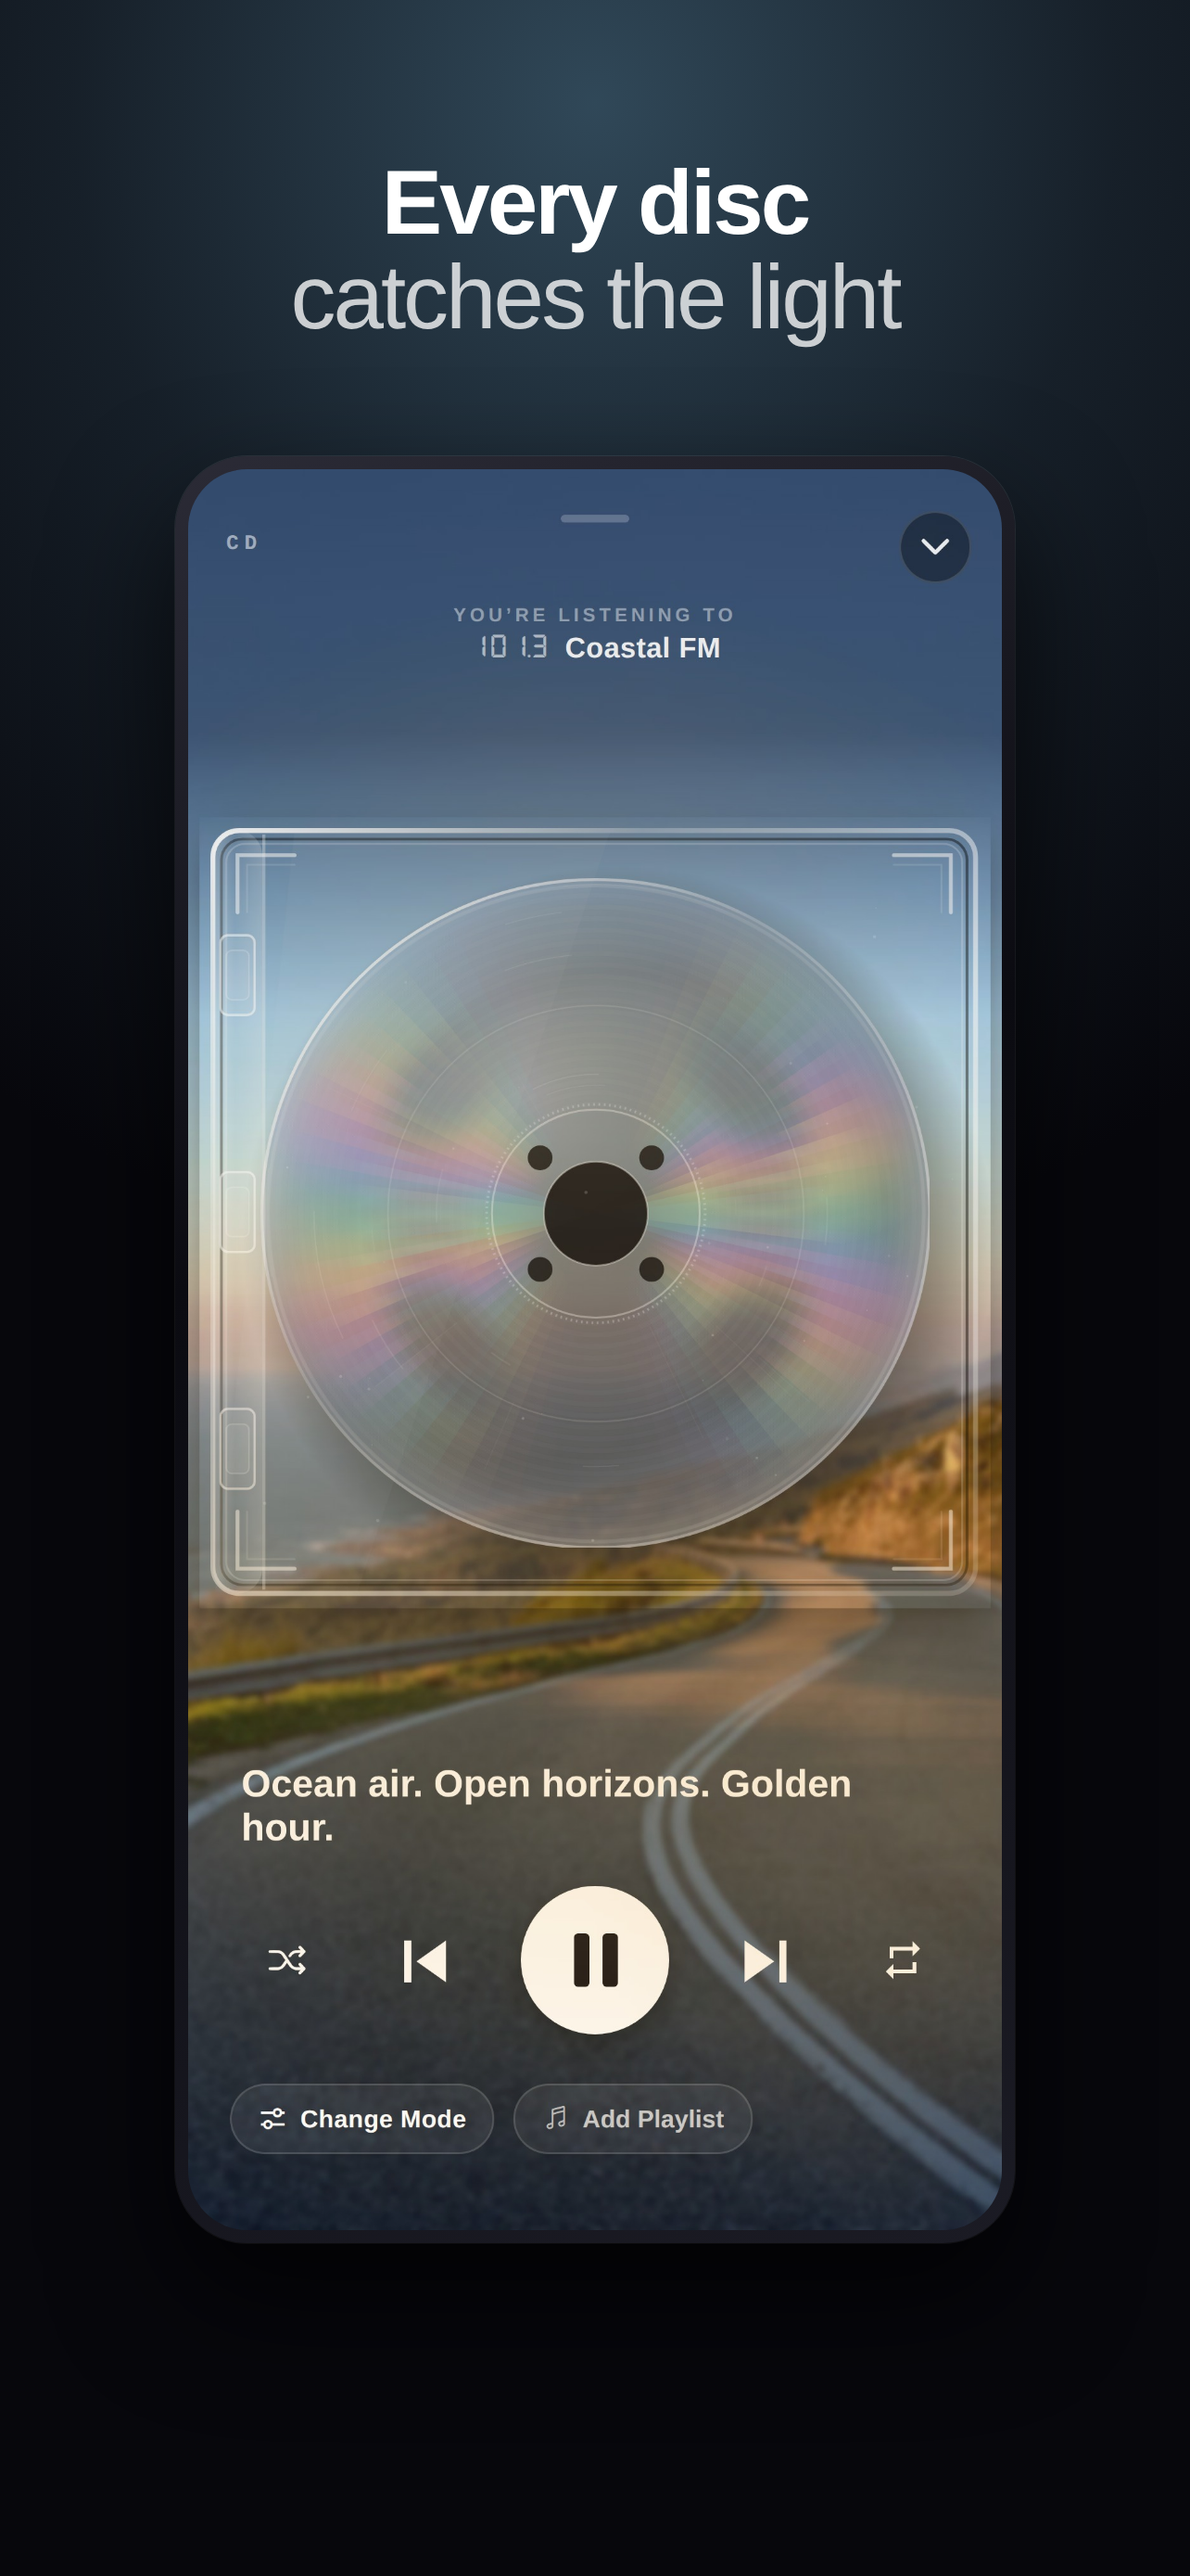
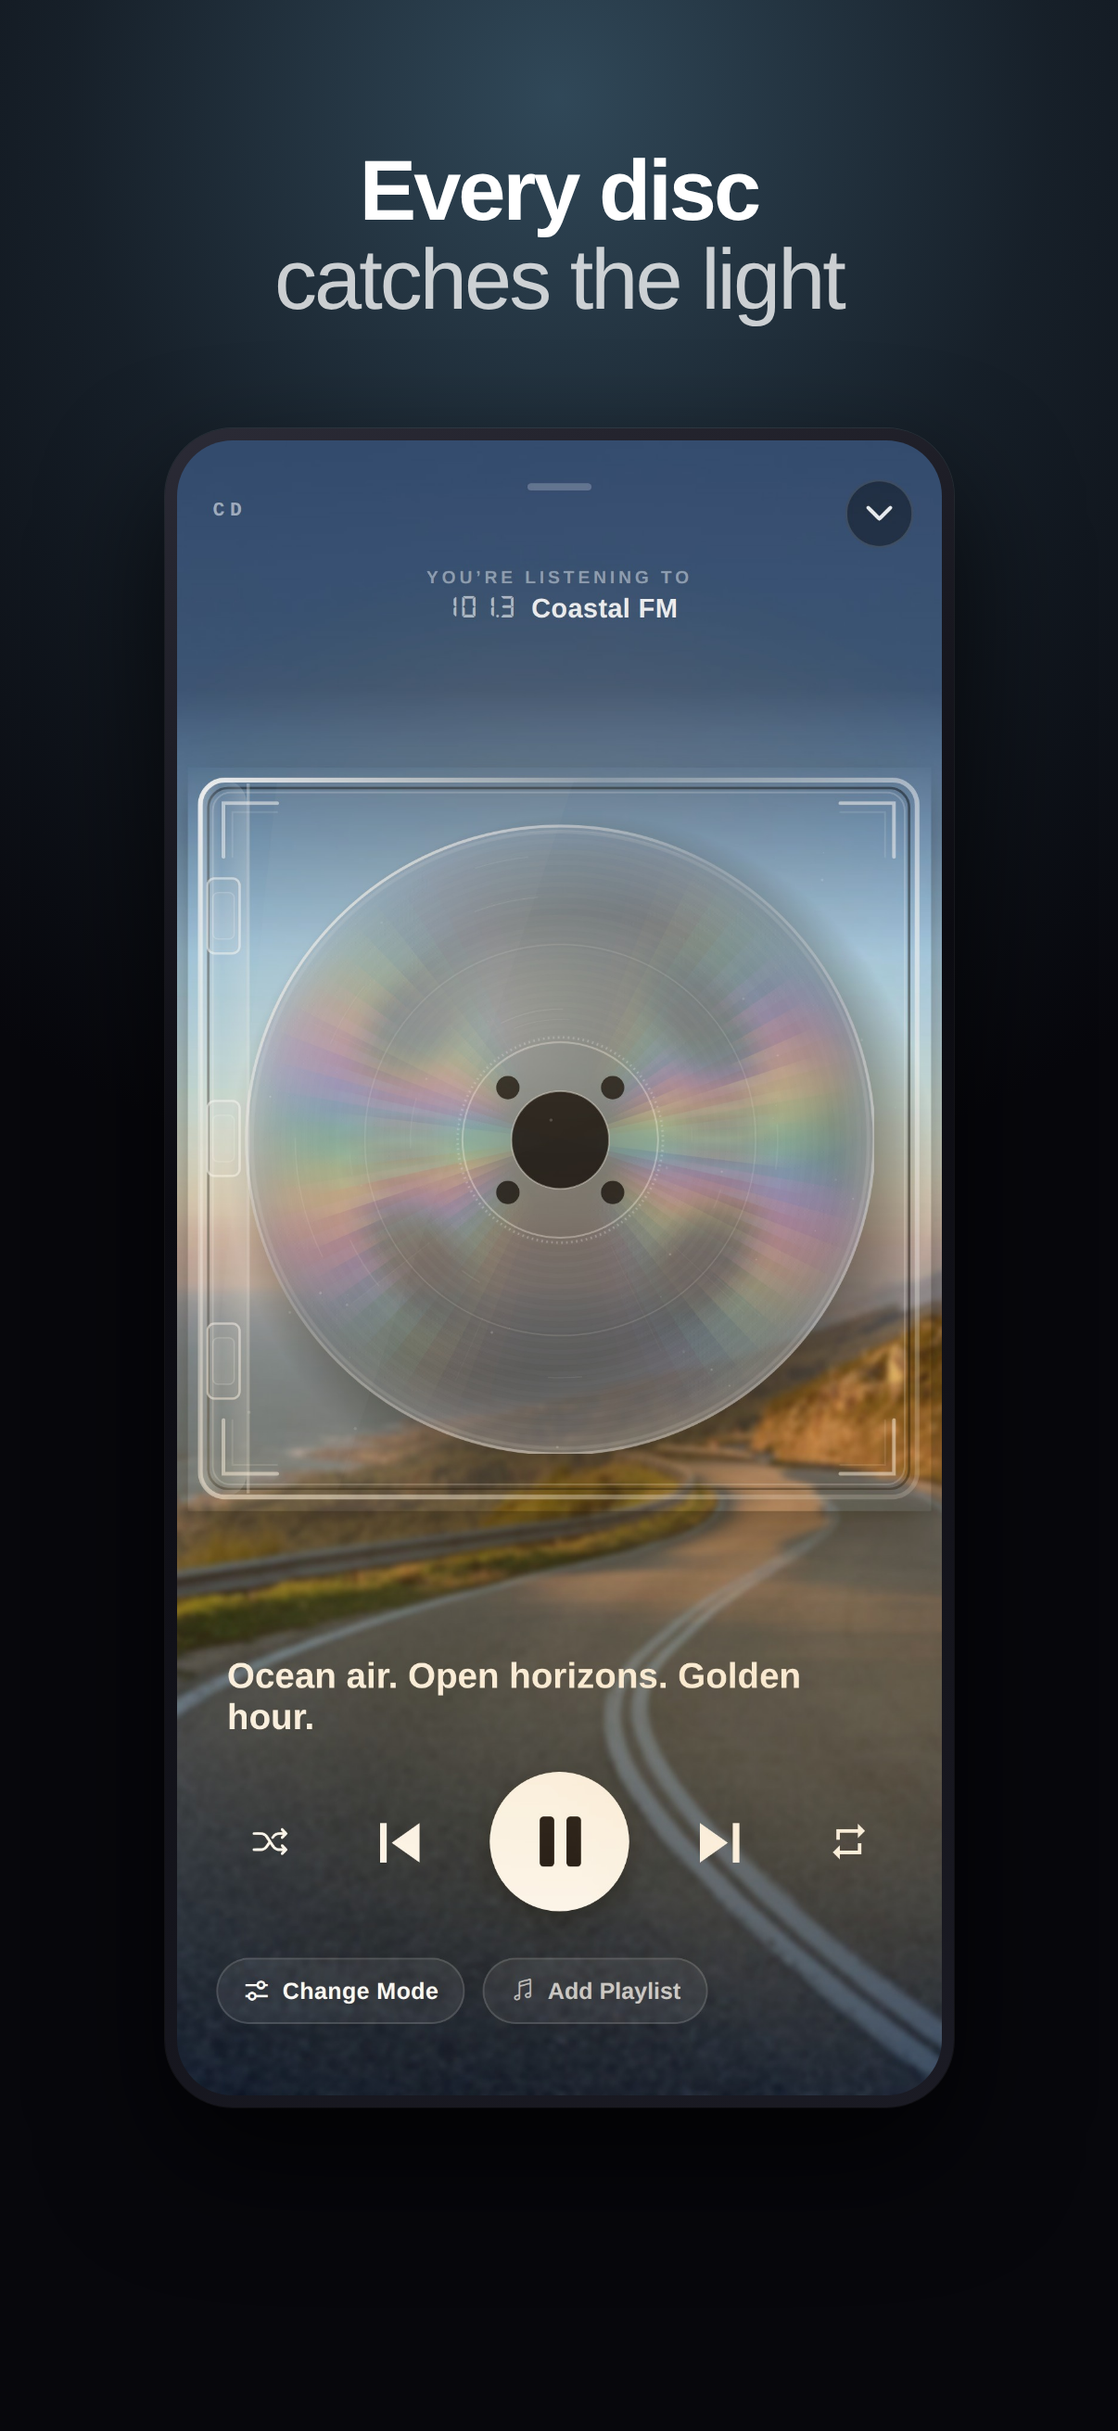
Re-render the slides at 1206x2622 — Apple refused 1284x2778
App Store Connect rejected all ten screenshots with "File dimensions are
invalid". Apple has consolidated its iPhone screenshot slots into a single
"iPhone with Dynamic Island (medium display)" tab, and that slot names the
four sizes it accepts: 2556x1179, 1179x2556, 2622x1206, 1206x2622. The
largest portrait one is taken, because the page states that screenshots
scale down to smaller devices and nothing scales up.

Every number in the builder's phone column is its predecessor times
1206/1284, so this is the same composition at a smaller size rather than a
re-design; G.k carries that factor into the CARDS layout, whose constants
were written against the original canvas. Checked by reading the ten
outputs' dimensions back off the files, and by diffing each against its own
predecessor scaled down: means of 1.6-6.2 of 255, with the hand-scaled
CARDS slide second lowest at 2.60.

The raw captures stay at 1284x2778 deliberately -- they are composited into
a drawn phone frame about 825px wide, so they only have to exceed it -- and
shots.mjs now says so, because shrinking them is the obvious wrong fix. The
app preview is already 886x1920 and carried forward untouched. The iPad set
is unchanged and still needs its own tab checked.

Claude-Session: https://claude.ai/code/session_01QfXMCYhSHowDeZKzYgKa2H

diff --git a/AGENTS.md b/AGENTS.md
@@ -108,6 +108,12 @@ The owner does not code — describe changes in plain English, Claude implements
   **SO THE REMAINING ROUTE IS A PERSON AT APPLE, AND THAT IS THE WHOLE OF WHAT IS LEFT.** Account-level Compliance has read In Review since 07.09 (31 days) so its button is unavailable; the per-app pop-up is inert; there is no third form. **AND IT CANNOT BE CHASED FROM HERE**: `developer.apple.com/contact/` answers a 302 straight to `idmsa.apple.com` — Apple's sign-in — and this sandbox's proxy refuses that host outright, so even the support menu's own wording cannot be read from this environment, let alone a case opened. Her browser and her phone are the instruments. What to tell them, in one breath: the account's DSA compliance has been In Review since 7 September, the app is missing from all 27 EU storefronts while the US and UK serve normally, App Store Connect says trader contact information is missing, and neither the account-level control nor the per-app pop-up will accept it.
   ORDER, and it is two steps rather than a chain: **try the per-app Edit pop-up first** (free, instant, and it may simply let her finish) -> if it is also inert, **open a case with Apple Developer Support and prefer the phone**, because 31 days with nothing in the account's own inbox is the one thing here that no amount of form-filling can fix. Have the Anytime Mailbox receipt, the Cruise FM service email and a phone that can take a code ready either way. **AND THE SYMPTOM IS STILL THE ONLY PROOF**: nothing is recorded as done until `apps.apple.com/de/app/id6793233679` loads in her browser.
 
+- **APPLE CHANGED THE SCREENSHOT SIZE AND REFUSED THE WHOLE SET 2026-10-13** (marketing assets only — no code, no build, no publish) — the ten slides went up and App Store Connect answered *"File dimensions are invalid"* on every one. **1284x2778 is simply not a size it takes any more.** Apple has consolidated its iPhone screenshot slots into ONE **iPhone with Dynamic Island (medium display)** tab — the only iPhone screenshot tab on the page, beside iPhone Duo, iPad 13" and Apple Watch — and that slot's own text names the four it accepts: 2556x1179, 1179x2556, 2622x1206, **1206x2622**. Taken the largest portrait one, because the same page says screenshots *"automatically scale down to smaller device sizes"* and nothing ever scales up.
+  **IT IS THE 09.10 HEADER LESSON ARRIVING A SECOND TIME, AND THAT IS THE PART WORTH KEEPING.** That round quoted Apple's own help page listing `.jpeg` as supported for the 21:9 header, shipped a JPEG, and the slot refused it — "the slot is the authority and the documentation is not". This is the same shape with a different field, and both times the thing that settled it in seconds was ONE UPLOAD. **A specification is a claim about a slot; the slot is the fact.** Note also that nothing in this repo could have caught it: there is no way to ask App Store Connect what it wants without pressing upload.
+  **EVERY NUMBER IN THE PHONE COLUMN IS THE OLD ONE x 1206/1284**, so the slides are the same composition at a smaller size rather than a re-design, and `G.k` carries that factor into the CARDS layout, whose constants were written against the original 1284 canvas. **PROVEN THREE WAYS RATHER THAN ASSERTED**: all ten outputs read back 1206x2622 from the files themselves; each diffed against its own predecessor scaled down measures a mean of **1.6-6.2 of 255**, i.e. resampling rather than a moved element; and **slide 10 — the one whose numbers had to be scaled BY HAND — is second-LOWEST at 2.60**, which is the control that matters, since a wrong constant there would have made it the outlier rather than the quietest.
+  **THE RAW CAPTURES STAY AT 1284x2778 AND MUST NOT BE "CORRECTED" DOWN.** `shots.mjs` shoots 428x926 logical x3 and the builder composites that INTO a drawn phone frame ~825px wide, so the capture only has to EXCEED the frame; shrinking it would throw detail away for nothing. A note saying so is now in that file, because the obvious tidy-up is the wrong one.
+  **AND THE PREVIEW NEEDED NOTHING**: the 15.09 cut is 886x1920, which is on the same slot's list, and the page reads *1 of 3 App Previews* — it carried forward intact. **THE iPAD SET IS UNTOUCHED** at 2064x2752 and is already on the listing from 1.4.2 — but nobody here has seen what the iPad 13" tab now names, so **check it before assuming that size survived too.**
+  **THE ERROR ALSO NAMED TWO FILES NUMBERED 02**, which dates the upload: the stale local folder and the new one were dragged in together. One more reason the ten were sent into the chat rather than left to a re-download.
 - **THE SEARCH RESULTS ASSET IS UP, AND HER OWN COPY OF THE SLIDES WAS THREE DAYS OLD 2026-10-13** (listing only — no code, no build, no publish) — owner: "the search results images are up". So `screenshots-header/search-results-asset.png` is placed and the 09.10 header is already there, which closes both halves of Apple's creative-assets banner. **IT IS A TRADE AND THE TRADE IS NOW SPENT**: that row used to show up to three screenshots and now shows one image, so the 01.10 argument for holding the widget slide at position 3 is finished — positions 1-3 are a PRODUCT PAGE consideration now rather than a search one, and `listing-1.4.3.md` §8's checklist items 8 and 9 are corrected forward rather than silently edited.
   **AND THE OTHER HALF OF THE SAME MESSAGE IS THE ONE WORTH KEEPING: "looks like the images haven't updated" WAS TRUE OF HER DISK AND FALSE OF THE REPO.** Her Explorer window showed `02-stations-dial` and `03-yourphoto-framing`, i.e. the numbering from BEFORE the widget slide went in — a folder on her own machine that does not update itself, the same shape as the 12.10 website deploy where the route was Download ZIP -> extract -> drag. The repo is correct and was checked rather than asserted: local `00c120a` equals `origin/main`, the tree is clean, and the folder on disk holds `02-widgets-home.png` with the dial at 03.
   **THE COUNT CANNOT TELL YOU, THE NAMES CAN.** Both the stale folder and the current one hold exactly TEN files, because this round REPLACED a slide rather than adding one — so "ten files, looks right" is precisely what a three-day-old copy looks like. `03-yourphoto-framing` was deleted on 13.10, so its presence dates the folder to before that round; read a filename that should no longer exist rather than counting.

diff --git a/docs/launch/listing-1.4.3.md b/docs/launch/listing-1.4.3.md
@@ -440,7 +440,7 @@ container does not have it. `pip install --target <scratchpad>/pylibs Pillow`
 then run with `PYTHONPATH=<scratchpad>/pylibs` — never into the project.
 
 **DONE 2026-10-13.** The shot is in as `screenshots-appstore/11-widgets-home.jpg`
-(1284x2778, exactly the size the rest of the set already uses, so nothing was
+(1284x2778, exactly the size the rest of the set used at the time, so nothing was
 resized), the row is second in `PHONE_SLIDES`, `08-yourphoto-framing` is out,
 and `screenshots-marketing/` is ten slides again with the widget one at **02**.
 Tint `#693043`, sampled not picked. The two orphaned renders the builder left
@@ -495,6 +495,59 @@ iPad is the one device where the app has dropped the driving frame entirely.
 Leave it unless she wants it.
 
 ---
+
+### CORRECTION 2026-10-13 — APPLE CHANGED THE SIZE AND THE WHOLE SET WAS REFUSED
+
+The ten slides were uploaded and App Store Connect rejected them: *"File
+dimensions are invalid"*, naming `01-mirrorball-downtown.png`,
+`02-stations-dial.png` and `02-widgets-home.png` (two files numbered 02,
+because the stale folder and the new one were dragged in together).
+
+**The slot itself names what it takes, and 1284×2778 is not on the list.**
+Apple has consolidated its iPhone screenshot slots into a single **iPhone with
+Dynamic Island (medium display)** tab — the only iPhone screenshot tab on the
+page now, alongside iPhone Duo, iPad 13" and Apple Watch — and its own text
+reads: *"Drag and drop to add assets or choose from your Asset Library for
+iPhone 6.1" or 6.3" displays. Supported sizes for app previews include
+1920 × 886px and 886 × 1920px. For app screenshots, supported sizes include
+2556 × 1179px, 1179 × 2556px, 2622 × 1206px and 1206 × 2622px."*
+
+**THE SET IS NOW 1206×2622**, the largest portrait size on that list, because
+Apple scales a screenshot DOWN to smaller devices and never up — and the page
+says so in as many words: *"Screenshots will automatically scale down to
+smaller device sizes unless you add specific app previews and screenshots for
+other device sizes."*
+
+**THIS IS THE 09.10 HEADER LESSON A SECOND TIME.** That round quoted Apple's
+own help page saying the header slot accepted JPEG, and the slot refused it.
+**The slot is the authority; the documentation is not, and neither are these
+notes.** Both times the only thing that settled it was one upload.
+
+**THE APP PREVIEW NEEDS NOTHING.** The September cut is 886×1920, which is on
+that same list, and the page reads *1 of 3 App Previews* — it carried forward
+intact.
+
+**AND THE RAW CAPTURES ARE UNCHANGED AT 1284×2778, ON PURPOSE.**
+`scripts/harness/shots.mjs` shoots at 428×926 logical × 3, and
+`build-slides.mjs` composites those into a drawn phone frame about 825px wide
+— so the captures only have to EXCEED the frame, and shooting them smaller
+would throw detail away for nothing. Only the slide canvas moved.
+
+**EVERY NUMBER IN THE PHONE COLUMN IS THE OLD ONE × 1206/1284**, so this is
+the same composition at a smaller size rather than a re-design; `G.k` carries
+that factor into the CARDS layout, whose numbers were written against the
+original canvas. Verified rather than assumed: all ten outputs read back
+1206×2622 from the files themselves, and each one diffed against its own
+predecessor scaled down measures a mean of **1.6–6.2 of 255** — resampling,
+not a moved element. **Slide 10, the one whose numbers had to be scaled by
+hand, is second-LOWEST at 2.60**, which is the control that matters: a wrong
+constant there would have made it the outlier.
+
+**THE iPAD SET IS UNTOUCHED AND WAS NOT RE-RENDERED.** It is still
+2064×2752 at `screenshots-marketing-ipad/`, still carrying its 15.09
+numbering, and it is already on the listing from 1.4.2. Nobody here has seen
+what sizes the iPad 13" tab now names — **check that tab before assuming it
+still takes 2064×2752.**
 
 ## 6. Promotional text — change it the day this ships
 
@@ -627,7 +680,8 @@ outright: prices, discounts, URLs, copyright symbols, other platforms' logos,
 and any Apple recognition the app has not received.
 
 **21:9 is a shape this app has never drawn.** Every screen it owns is portrait
-and every marketing slide is 1284×2778. A header is therefore a new design
+and every marketing slide was 1284×2778 (**1206×2622 since 13.10 — see the
+correction at the foot of §5**). A header is therefore a new design
 round rather than a crop of something existing — draw directions, let the
 owner pick, which is how every design round here has gone.
 
